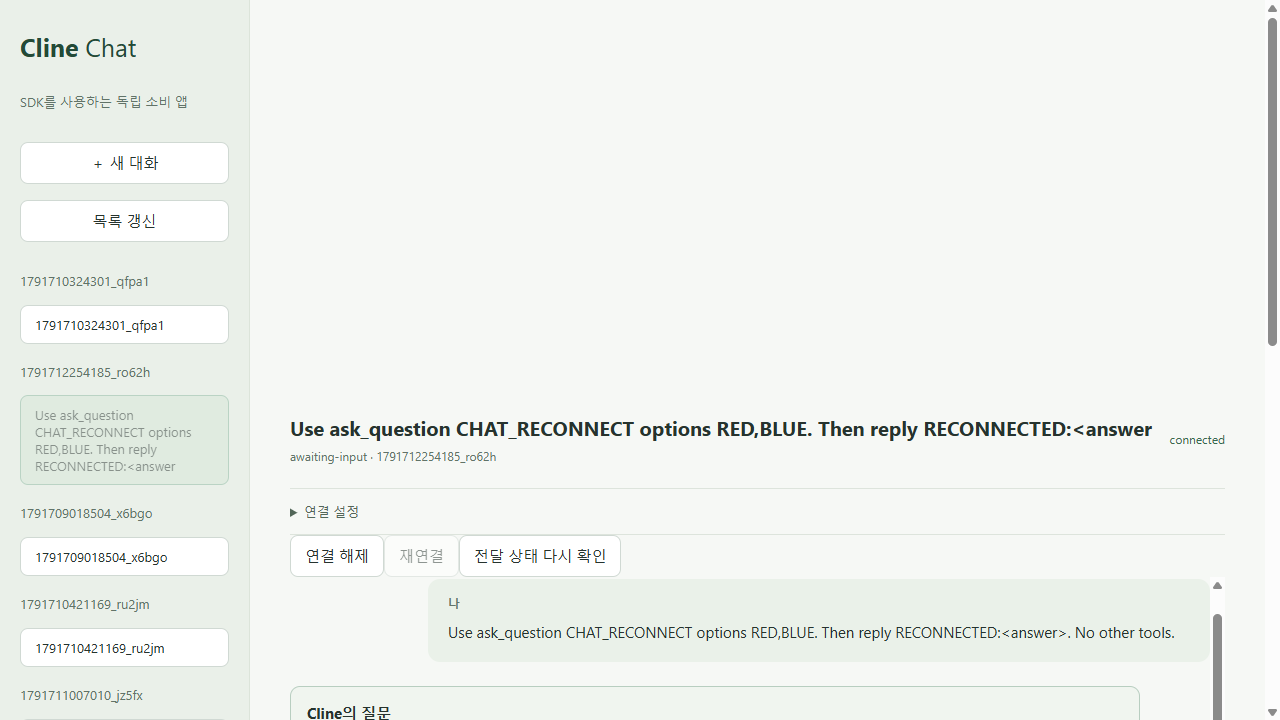
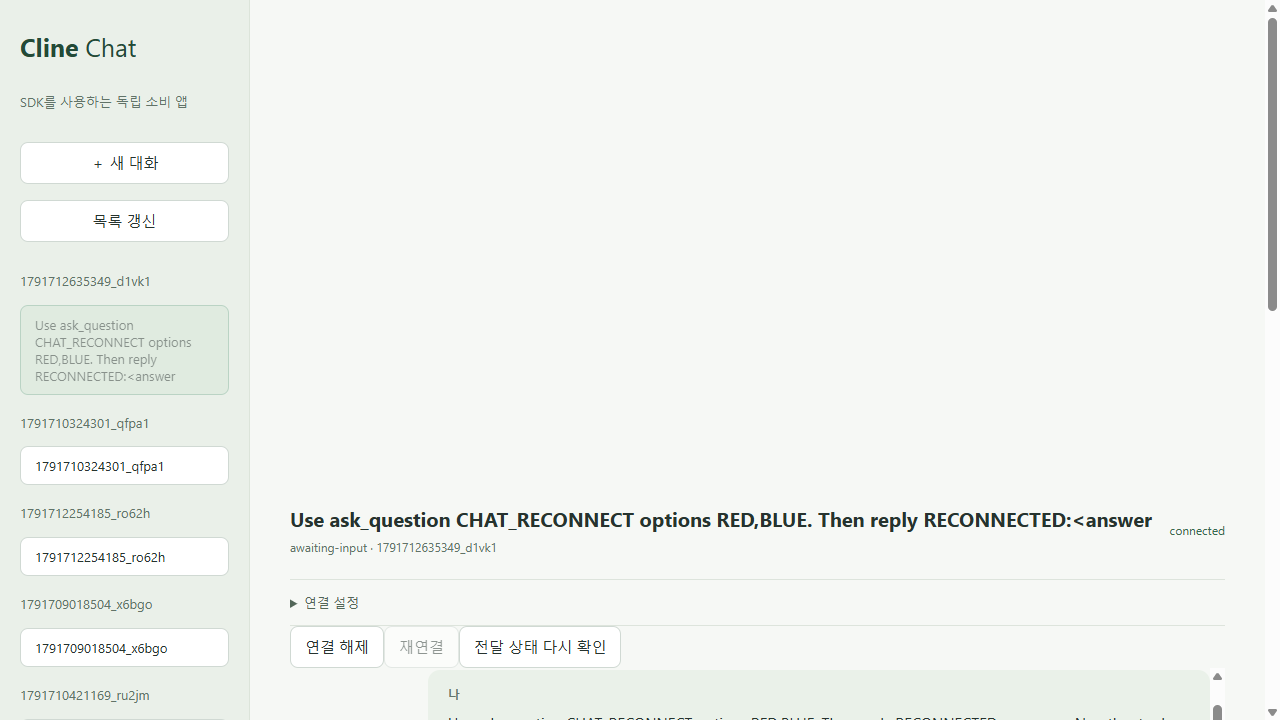
fix(sdk): initialize input ledger before launch and guard resume (#26)

diff --git a/packages/sdk/src/live.ts b/packages/sdk/src/live.ts
@@ -1098,6 +1098,7 @@ export function createLiveClient(options: LiveOptions): LiveClient {
       messages.set(request.requestId,{binding,promise});promise.catch(()=>{if(!reserved)messages.delete(request.requestId);});return promise;
     },
     resume(input) {
+      if(state.inputControl?.current===false)return Promise.reject(new SdkError("input-control-unavailable","The durable input ledger is unavailable; resume is blocked."));
       if(outputMode === "json") return Promise.reject(new SdkError("unsupported-json-resume","Pinned JSON mode cannot resume through TUI."));
       const request = structuredClone(input);
       if (!request || typeof request.requestId !== "string" || typeof request.executionId !== "string" || !/^[A-Za-z0-9][A-Za-z0-9._:-]{0,127}$/.test(request.requestId) ||
@@ -1114,6 +1115,7 @@ export function createLiveClient(options: LiveOptions): LiveClient {
         return Promise.reject(new SdkError("resume-target-mismatch", "Attach the ended managed execution before resuming."));
       const promise = (async () => {
       await refresh();
+        if(state.inputControl?.current===false)throw new SdkError("input-control-unavailable","The durable input ledger is unavailable; resume is blocked.");
       if (!state.historySync.current || !state.sessionId || !["completed", "stopped"].includes(state.execution) ||
           processEvidence?.alive !== false || !processEvidence.identityConfirmed ||
           processEvidence.exitCode === null || processEvidence.supervisorAlive !== false ||

diff --git a/tests/remote-input-boundary.py b/tests/remote-input-boundary.py
@@ -51,6 +51,7 @@ class RemoteInputBoundary(unittest.TestCase):
                         priorSessions=[])
             if composer: meta['resume'] = dict(requestId='input-controlled')
             (run / 'meta.json').write_text(json.dumps(meta))
+            (run / 'requests.json').write_text('{}')
             ready = root / 'ready'
             command = 'while [ ! -f ' + shlex.quote(str(ready)) + ' ]; do sleep .01; done; exec ' + shlex.join([sys.executable, str(HELPER), '--serve', str(run)])
             subprocess.run(['tmux', '-S', str(socket), 'new-session', '-d', '-s', 'controlled', '-x', '120', '-y', '40', command], check=True)
@@ -100,6 +101,11 @@ class RemoteInputBoundary(unittest.TestCase):
                 self.assertTrue(current['process']['supervisorAlive'])
                 self.assertTrue(any(o['kind'] == 'pty' and b'RECEIVED:' in base64.b64decode(o['dataBase64']) for o in wait_for(lambda: handle(dict(action='status', cursor=0))['observations'])))
                 print(json.dumps(dict(inputType=input_type, composer=composer, receipt='written', supervisorAlive=True)), flush=True)
+                (run / 'requests.json').unlink()
+                self.assertFalse(handle(dict(action='status', cursor=0))['management']['inputLedgerCurrent'])
+                rejected = subprocess.run([sys.executable, str(HELPER)], input=json.dumps(dict(request, action='reserve-response', root=str(root), executionId=run.name, requestId='lost-ledger-bypass')), text=True, capture_output=True, timeout=10)
+                self.assertIn('Input ledger is missing', json.loads(rejected.stdout)['message'])
+                self.assertFalse((run / 'requests.json').exists())
             finally:
                 # This unique test-owned socket has no shared CLI or user sessions.
                 subprocess.run(['tmux', '-S', str(socket), 'kill-server'], capture_output=True, timeout=5)

diff --git a/packages/sdk/remote/supervisor.py b/packages/sdk/remote/supervisor.py
@@ -207,7 +207,6 @@ def serve(run):
     except OSError:
         meta.update(exitCode=127, endedAt=now(), startupFailed=True)
         save(run / 'meta.json', meta)
-        save(run / 'requests.json', {})
         return
     if pid == 0:
         if json_mode:
@@ -381,6 +380,7 @@ def handle(request):
                     bootId=boot_id(), tmuxSocket=socket, tmuxSession=run_id, identity=None, exitCode=None)
         # Prompt is launch-only: don't retain it in minimal control metadata after startup.
         save(run / 'meta.json', meta)
+        save(run / 'requests.json', {})
         command = ' '.join(shlex.quote(v) for v in [sys.executable, str(helper), '--serve', str(run)])
         result = subprocess.run(['tmux', '-S', socket, 'new-session', '-d', '-s', run_id, '-x', '120', '-y', '40', command], capture_output=True, text=True)
         if result.returncode:

diff --git a/packages/sdk/remote/resume.py b/packages/sdk/remote/resume.py
@@ -22,6 +22,8 @@ def launch_resume(request, root, handle, identity, boot_id, save):
                 raise ValueError('This execution already has a resume reservation; do not create another run')
             return dict(executionId=receipt['executionId'],sessionId=receipt['sessionId'],remoteRoot=str(root),terminalMode='tui',resume=receipt)
         status = handle(dict(request,action='status',cursor=0,fullScreen=False))
+        if status.get('management',{}).get('inputLedgerCurrent') is not True:
+            raise ValueError('Resume requires a current durable input ledger')
         meta = json.loads((old / 'meta.json').read_text())
         proc = status['process']
         stop = proc.get('stop')
